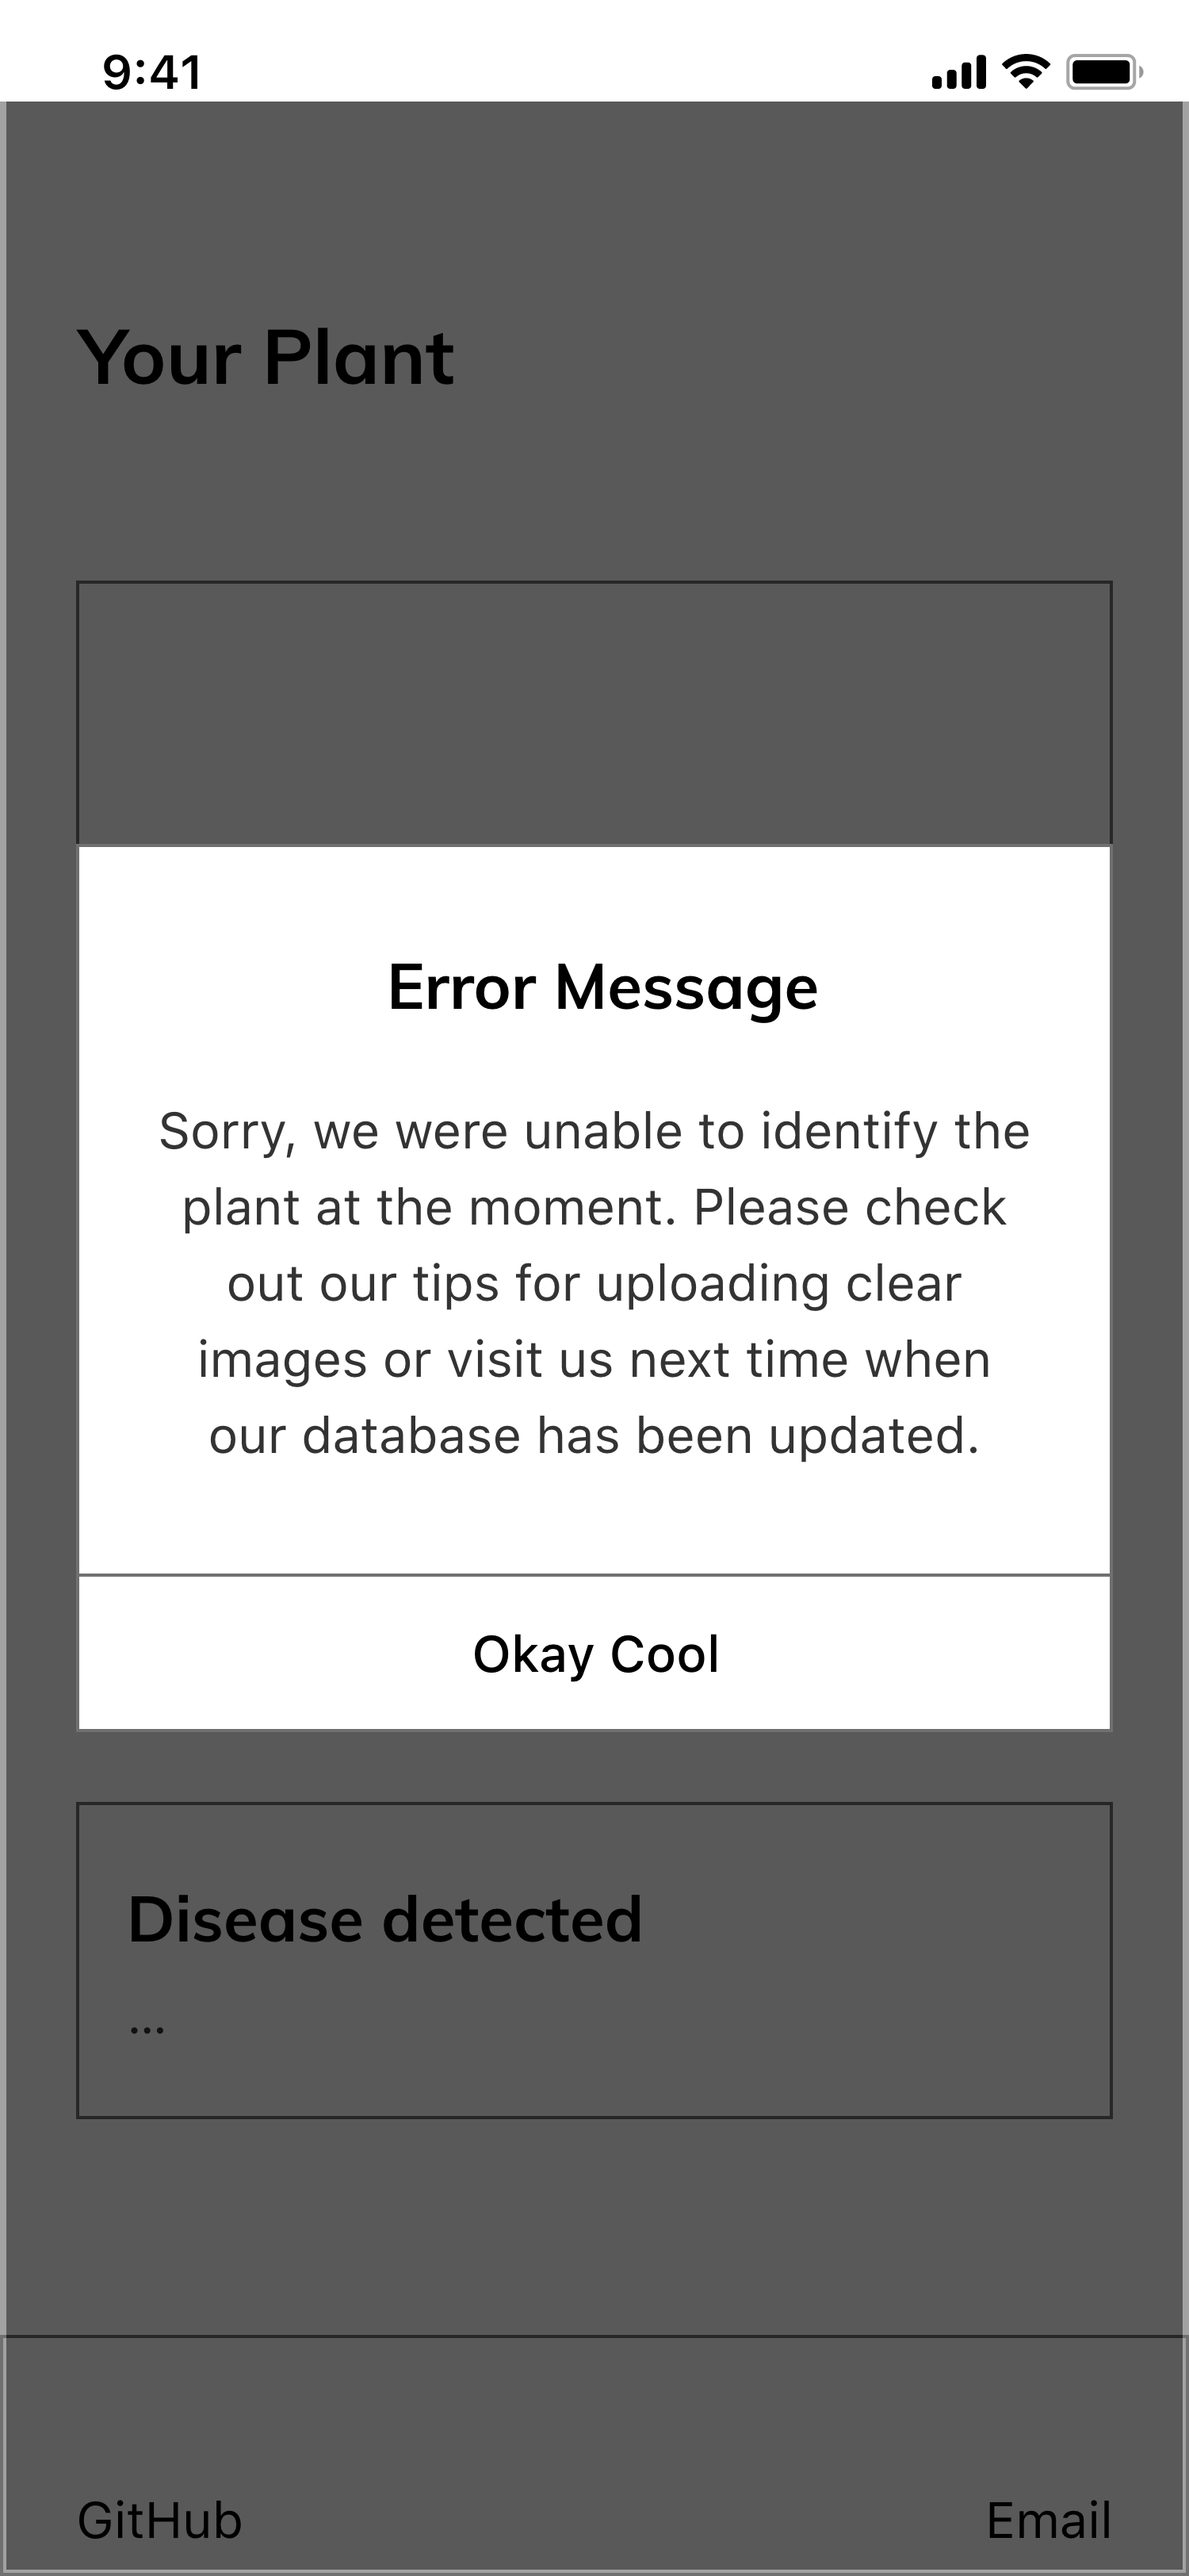
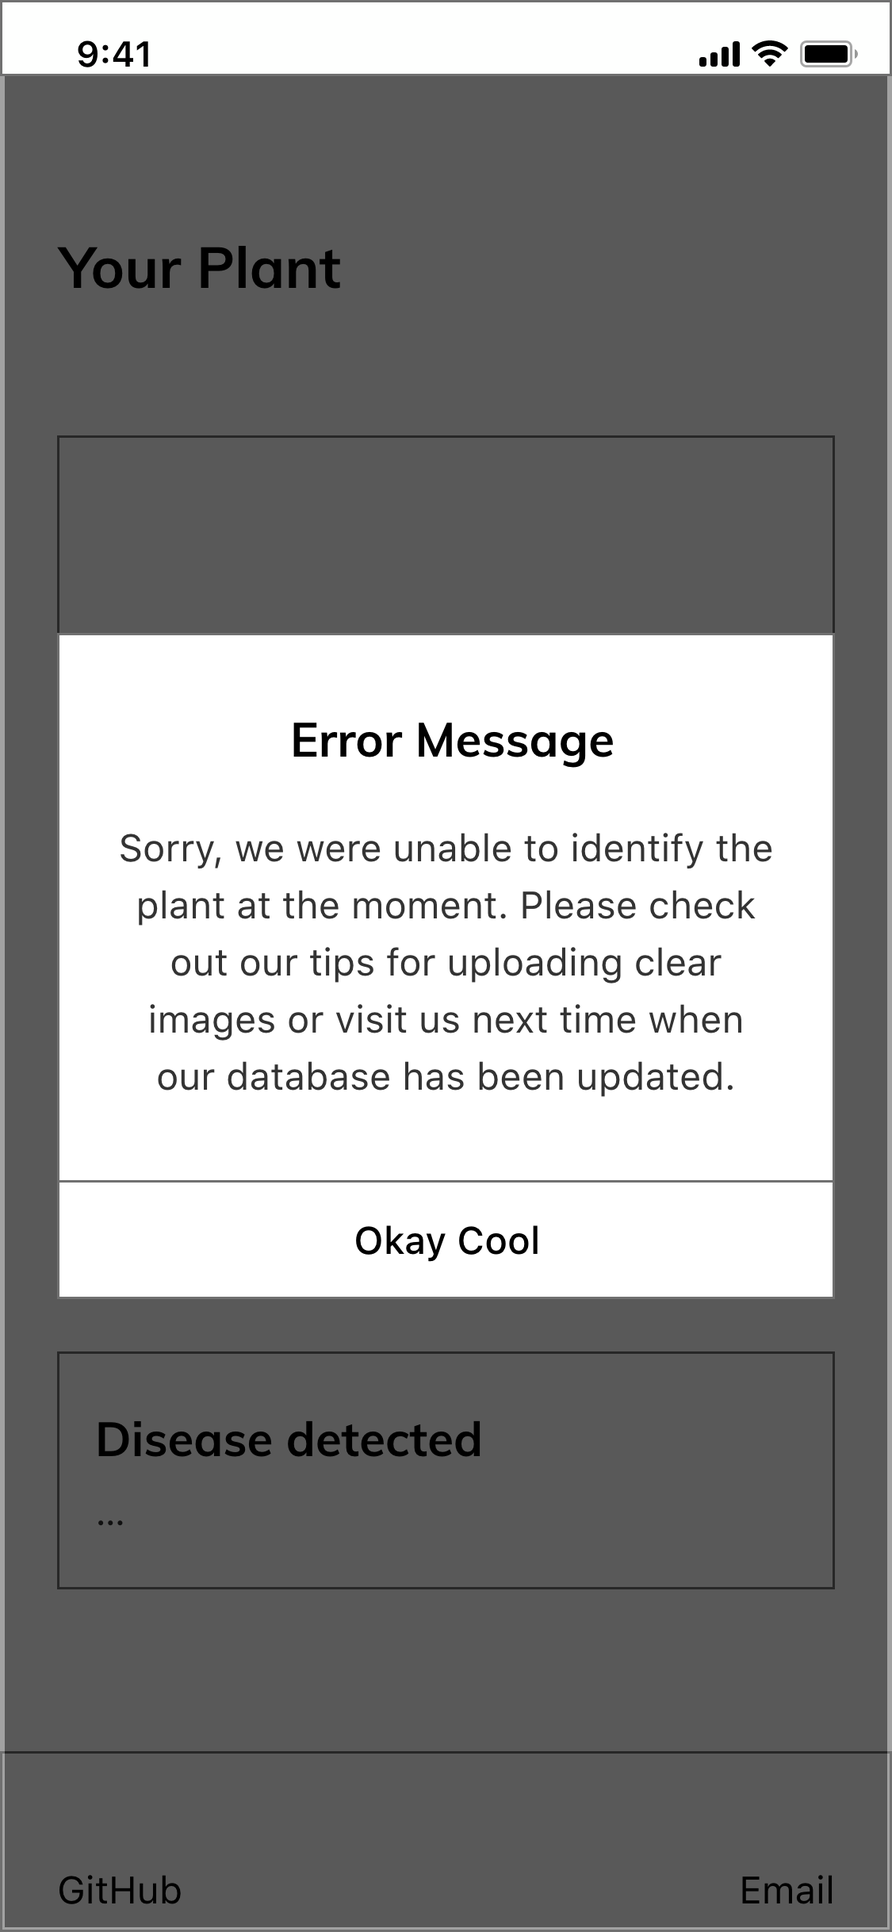
Updated wireframes and design spec format

Changed region(s): [[0.9956, 0.0, 1.0, 0.0624], [0.0, 0.0, 0.0311, 0.0312]]

diff --git a/design_specification.md b/design_specification.md
@@ -1,5 +1,5 @@
 <p align="center">
-    <img src="./Images/logo.png" width="60%">
+    <img src="./Images/logo.png" width="40%">
 </p>
 
 # PlantPharmacy Design Specification
@@ -17,7 +17,7 @@ We envision a mobile web application that detects plant diseases based on user-u
 Plant Pharmacy's interface layout is responsive to user's screen size, and utilizes a consistent interface layout for cross-platform usage. Our user interface is very simple. We have a single page web application:
 
 <p align="center">
-<img src="./Images/wireframes/home_component.png" width="50%">
+<img src="./Images/wireframes/home_component.png" width="40%">
 </p>
 
 Users tap the upload button to upload a single image. For best results, users are recommended to upload an image (JPG or PNG) that’s close to the plant and between 1MB and 35MB in size. This upload button is fixed to the bottom of the browser so that users can have access to uploading a different image from anywhere on the page.
@@ -27,15 +27,13 @@ After a user uploads an image two things could happen:
 File requirements are satisfied thus the user receives the "results screen" shown below. This "results screen" contains the loading state while processing an image, the original image uploaded by the user, and lastly, disease detected in text format.
 
 <p align="center">
-<img src="./Images/wireframes/results_component.png" width="50%">
+<img src="./Images/wireframes/results_component.png" width="40%">
 </p>
 
-File requirements are not satisfied thus the user receives the error screens shown below. 
-
-<p align="center">
-<img src="./Images/wireframes/error1_component.png" width="50%">
-<img src="./Images/wireframes/error2_component.png" width="50%">
-</p>
+File requirements are not satisfied thus the user receives the error screens shown below.
+<br/><br/>
+<img style="float: right;" src="./Images/wireframes/error1_component.png" width="40%" >
+<img style="float: left;" src="./Images/wireframes/error2_component.png" width="40%">
 
 
 
